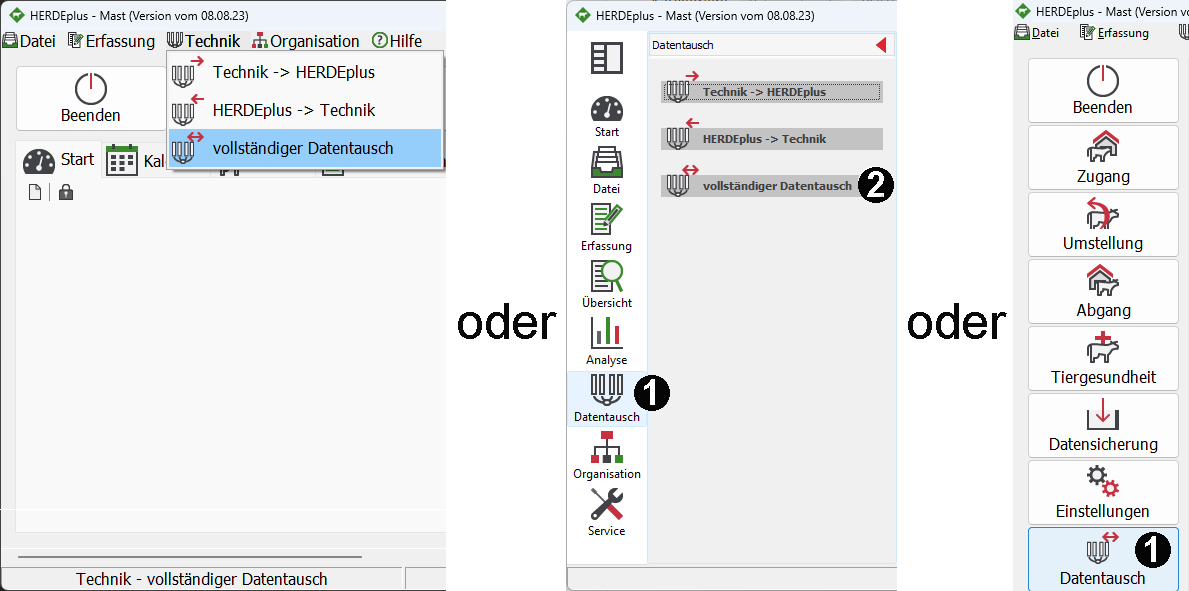
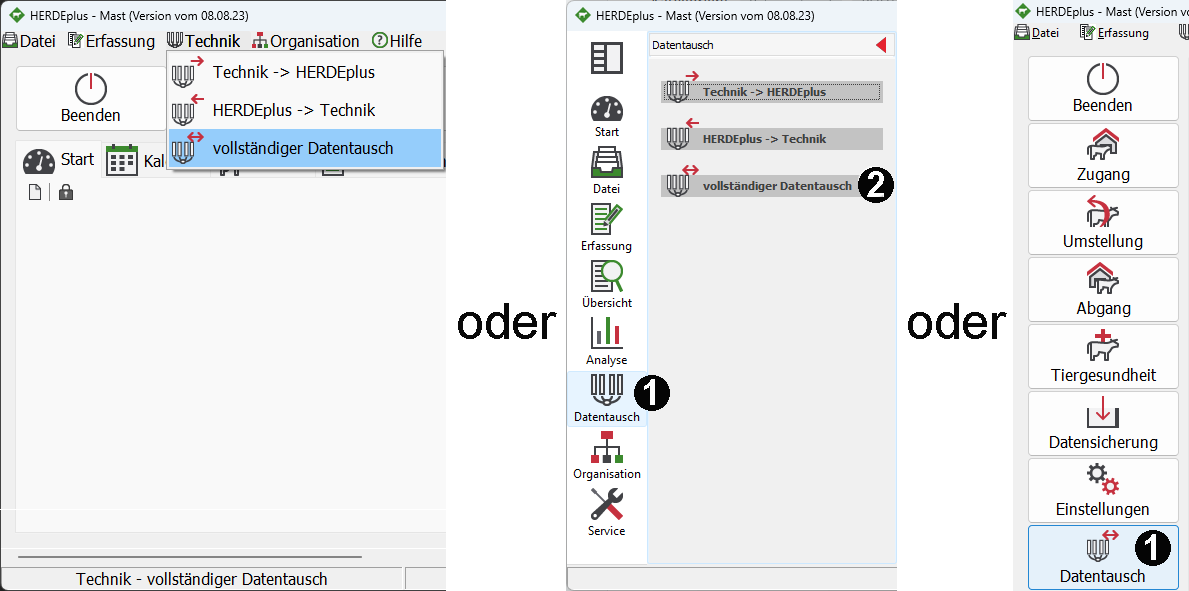
Data synchronisation Herde Plus: add English version

diff --git a/content/de/docs/data-link/dsp-herde/synchronisation.md b/content/de/docs/data-link/dsp-herde/synchronisation.md
@@ -20,20 +20,28 @@ Gehen Sie wie folgt vor, um Daten zwischen der Herde Software und dem VitalContr
 
 ### Vollständigen Datentausch durchführen
 
-1. Weisen Sie die Herde-Software an, einen Datenaustausch durchzuführen. Je nach Konfiguration ihrer Benutzeroberfläche erreichen Sie den entsprechenden Menüpunkt `Datentausch` im Hauptmenü (Menüpunkt _Technik_),  in der Seitenleiste oder in der Werkzeugleiste (horizontal oder vertikal).
+1. Weisen Sie die Herde-Software an, einen Datenaustausch durchzuführen. Je nach Konfiguration ihrer Benutzeroberfläche erreichen Sie den entsprechenden Menüpunkt `Datentausch` im Hauptmenü (Menüpunkt _Technik_),  in der Seitenleiste oder in der angepassten Werkzeugleiste (horizontal oder vertikal).
 
    ![Herde Software: Aufruf der Funktion Datenaustausch](../screenshots/datentausch.png "Herde: Aufruf Datenaustausch")
 
-1. Es öffnet sich ein Pop-up, in dessen linker Seitenleiste die eingerichteten Technikkopplung aufgelistet sind. Klicken Sie auf den Eintrag `VitalControl`, um den Datenaustausch zu starten:
+1. Es öffnet sich ein Pop-up, in dessen linker Seitenleiste die eingerichteten Technikkopplungen aufgelistet sind. Klicken Sie auf den Eintrag `VitalControl`, um den Datenaustausch zu starten:
 
-   ![Herde Software: Datenaustausch starten](../screenshots/start-kopplung.png "Herde: Start Datenaustausch")
+   ![Datenaustausch mit Herde Software: Warnhinweis](../screenshots/start-kopplung.png "Herde: Start Datenaustausch")
 
-1. Beim erstmaligen Datenaustausch erscheint ein Warnhinweis, dass noch keine Tiere auf dem VitalControl angelegt sind. Quittieren Sie diesen Hinweis mit `Ja`.
+1. Beim erstmaligen Datenaustausch erscheint ein Warnhinweis, dass noch keine Tiere auf dem VitalControl angelegt sind. Quittieren Sie diesen Hinweis mit `Ja`. Der Datenaustausch wird gestartet.
 
-   ![Herde Software: Datenaustausch starten](../screenshots/warnung.png "Herde: Start Datenaustausch")
+   ![Herde Software: Datenaustausch starten](../screenshots/warnmeldung.png "Herde: Start Datenaustausch")
+
+1. Der Datenaustausch ist ein zweistufiger Prozess: Im ersten Schritt ➊ werden die Stamm- bzw. Tierdaten von der `Herde`-Software an das VitalControl übergeben. Im zweiten Schritt ➋ werden die mit dem VitalControl erfassten Daten von der `Herde`-Software eingelesen. Die Anzahl der übergebenen Datensätze (Tiere, Abkalbungen, Technikalarme und Gewichte) ist in dem Popup aufgeführt:  
+
+   ![Datenaustausch mit Herde Software: Ablauf](../screenshots/ablauf-kopplung.png "Herde: Ablauf Datenaustausch")
+
+1. Der erfolgreiche Abschluss der Datentausches wird über eine Popup mit einer Erfolgsmeldung signalisiert.
+
+   ![Herde Software: Erfolgsmeldung Datenaustausch](../screenshots/erfolgsmeldung.png "Herde: Erfolgsmeldung Datenaustausch")   
 
     {{% alert title="Achtung" %}}
 Falls viele Tiere übertragen sollen, kann der Importvorgang eine gewisse Zeitspanne in Anspruch nehmen. Den Fortschritt des Datenimports können Sie dabei dem Display des VitalControl-Geräts entnehmen.
 
-![Importierte Herde, Ansicht im VitalControl](../../vcsynchronizer/images/tierimport/datenuebertragung.png "Importierte Tiere")
+![Datensynchronisation mit Herde, Fortschrittsanzeige](../../vcsynchronizer/images/tierimport/datenuebertragung.png "VitalControl: Fortschritt Datenübertragung")
     {{% /alert %}}

diff --git a/content/en/docs/data-link/dsp-herde/synchronisation.md b/content/en/docs/data-link/dsp-herde/synchronisation.md
@@ -8,3 +8,40 @@ description: >
 weight: 20
 categories: [Data exchange, DSP Herde]
 ---
+Gehen Sie wie folgt vor, um Daten zwischen der Herde Software und dem VitalControl abzugleichen:
+
+### Connect VitalControl to PC
+
+1. Connect the VitalControl device to your computer or laptop via the supplied USB cable.
+
+   ![Connect VitalControl to PC or laptop](/images/synchronisation/connect-to-pc.svg "Connect VitalControl to PC")
+
+1. Make sure your VitalControl device is turned on.
+
+### Vollständigen Datentausch durchführen
+
+1. Weisen Sie die Herde-Software an, einen Datenaustausch durchzuführen. Je nach Konfiguration ihrer Benutzeroberfläche erreichen Sie den entsprechenden Menüpunkt `Datentausch` im Hauptmenü (Menüpunkt _Technik_),  in der Seitenleiste oder in der Werkzeugleiste (horizontal oder vertikal).
+
+   ![Herde Software: Aufruf der Funktion Datenaustausch](../screenshots/data-exchange.png "Herde: Aufruf Datenaustausch")
+
+1. Es öffnet sich ein Pop-up, in dessen linker Seitenleiste die eingerichteten Technikkopplungen aufgelistet sind. Klicken Sie auf den Eintrag `VitalControl`, um den Datenaustausch zu starten:
+
+   ![Datenaustausch mit Herde Software: Warnhinweis](../screenshots/start-transfer.png "Herde: Start Datenaustausch")
+
+1. Beim erstmaligen Datenaustausch erscheint ein Warnhinweis, dass noch keine Tiere auf dem VitalControl angelegt sind. Quittieren Sie diesen Hinweis mit `Ja`. Der Datenaustausch wird gestartet.
+
+   ![Herde Software: Datenaustausch starten](../screenshots/warning.png "Herde: Start Datenaustausch")
+
+1. Der Datenaustausch ist ein zweistufiger Prozess: Im ersten Schritt ➊ werden die Stamm- bzw. Tierdaten von der `Herde`-Software an das VitalControl übergeben. Im zweiten Schritt ➋ werden die mit dem VitalControl erfassten Daten von der `Herde`-Software eingelesen. Die Anzahl der übergebenen Datensätze (Tiere, Abkalbungen, Technikalarme und Gewichte) ist in dem Popup aufgeführt:  
+
+   ![Datenaustausch mit Herde Software: Ablauf](../screenshots/data-transfer.png "Herde: Ablauf Datenaustausch")
+
+1. Der erfolgreiche Abschluss der Datentausches wird über eine Popup mit einer Erfolgsmeldung signalisiert.
+
+   ![Herde Software: Erfolgsmeldung Datenaustausch](../screenshots/success-message.png "Herde: Erfolgsmeldung Datenaustausch")   
+
+    {{% alert title="Attention" %}}
+Falls viele Tiere übertragen sollen, kann der Importvorgang eine gewisse Zeitspanne in Anspruch nehmen. Den Fortschritt des Datenimports können Sie dabei dem Display des VitalControl-Geräts entnehmen.
+
+![Datensynchronisation mit Herde, Fortschrittsanzeige](../../vcsynchronizer/images/import-animals/data-transfer.png "VitalControl: Fortschritt Datenübertragung")
+    {{% /alert %}}

diff --git a/content/en/docs/data-link/farm-pc/_index.md b/content/en/docs/data-link/farm-pc/_index.md
@@ -26,19 +26,19 @@ Proceed as follows to export data from VitalControl to a mass storage device of 
 1. In the list of your installed applications, scroll down to the letter `U`. There you should find a menu entry `Urban VitalControl`. If necessary, expand this entry so that all submenu entries are displayed.
 
    {{% alert title="Attention" %}}
-If you cannot find the entry `Urban VitalControl` in your applications list, you may have to [install](../installation/) the software `VCSynchronizer` on your PC first.
+If you cannot find the entry `Urban VitalControl` in your applications list, you may have to [install](../vcsynchronizer/installation/) the software `VCSynchronizer` on your PC first.
    {{% /alert %}}
 
 1. Click on the menu item `Data export (CVS)`.
 
-   ![Windows Start menu, menu entry for Urban VitalControl (VCSynchronizer)](../images/data-export/data-export.png "Windows start menu, VitalControl")
+   ![Windows Start menu, menu entry for Urban VitalControl (VCSynchronizer)](../vcsynchronizer/images/data-export/data-export.png "Windows start menu, VitalControl")
 
 1. The export process is started. Once data export is finished, an Explorer window opens which displays the local data directory with the four newly created [export files](../../data-export/data-files/).
 
-   ![Local data directory with export files](../images/data-export/export-files.png "Export files, locally stored")
+   ![Local data directory with export files](../../data-export/images/export-files.png "Export files, locally stored")
 
    {{% alert title="Note" %}}
-  You can open each of these four [export files](../../data-export/data-files/) in a spreadsheet program of your choice (such as [Microsoft Excel](https://products.office.com/excel) or [OpenOffice Calc](https://www.openoffice.org/)) and perform advanced analysis of the data there. As an example, the view of the table `animals.csv` in a spreadsheet program is shown below:
+  You can open each of these four [export files](../../data-export/export-files/) in a spreadsheet program of your choice (such as [Microsoft Excel](https://products.office.com/excel) or [OpenOffice Calc](https://www.openoffice.org/)) and perform advanced analysis of the data there. As an example, the view of the table `animals.csv` in a spreadsheet program is shown below:
 
-  ![Exported animal data table open in a spreadsheet software](../images/data-export/animals.png "Spreadsheet software with animal data")
+  ![Exported animal data table opened in a spreadsheet software](../../data-export/images/animals.png "Spreadsheet software with animal data")
    {{% /alert %}}

diff --git a/content/de/docs/data-link/farm-pc/_index.md b/content/de/docs/data-link/farm-pc/_index.md
@@ -31,7 +31,7 @@ Gehen Sie wie folgt vor, um Daten vom VitalControl auf einen Massenspeicher ihre
 
 1. Klicken Sie jetzt auf den Menüeintrag `Datenexport (CVS)`.
 
-   ![Windows Startmenü, Eintrag für Urban VitalControl (VCSynchronizer)](../../datenexport/images/datenexport.png "Windows Startmenü, VitalControl")
+   ![Windows Startmenü, Eintrag für Urban VitalControl (VCSynchronizer)](../vcsynchronizer/images/datenexport/datenexport.png "Windows Startmenü, VitalControl")
 
 1. Der Exportvorgang wird gestartet. Nach dem Ende des Exportvorgangs öffnet sich ein Windows-Explorer Fenster, in dem das Datenverzeichnis angezeigt wird. In dem angezeigten Verzeichnis `data` befinden sich die vier neu erstellten [Exportdateien](../../data-export/data-files/).
 
@@ -40,5 +40,5 @@ Gehen Sie wie folgt vor, um Daten vom VitalControl auf einen Massenspeicher ihre
    {{% alert title="Hinweis" %}}
   Sie können jede dieser 4 [Exportdateien](../../datenexport/data-files/) in einem Tabellenkalkulationsprogramm ihrer Wahl öffnen (wie etwa [Microsoft Excel](https://products.office.com/excel) oder [OpenOffice Calc](https://www.openoffice.org/de/) und dort eine erweiterte Auswertungen der Daten durchführen. Beispielhaft ist unten die Ansicht der Tabelle `animals.csv` in einem Tabellenkalkulationsprogramm wiedergegeben.
 
-  ![Exportierte Tierdaten, geöffnet in Tabellenkalkulationsprogramm](../images/datenexport/animals.png "Tabellenkalkulationsprogramm mit Tierdaten")
+  ![Exportierte Tierdaten, geöffnet in Tabellenkalkulationsprogramm](../../datenexport/images/tiere.png "Tabellenkalkulationsprogramm mit Tierdaten")
    {{% /alert %}}

diff --git a/content/de/docs/data-link/hi-tier/animal-import.md b/content/de/docs/data-link/hi-tier/animal-import.md
@@ -66,12 +66,9 @@ Falls Sie in der Liste ihrer Anwendungen den Eintrag `Urban VitalControl` nicht 
     {{% alert title="Achtung" %}}
 Falls viele Tiere übertragen sollen, kann der Importvorgang eine gewisse Zeitspanne in Anspruch nehmen. Den Fortschritt des Datenimports können Sie dabei dem Display des VitalControl-Geräts entnehmen.
 
-![Importierte Herde, Ansicht im VitalControl](../../vcsynchronizer/images/tierimport/datenuebertragung.png "Importierte Tiere")
+![Datenimport von HI-Tier, Fortschrittsanzeige](../../vcsynchronizer/images/tierimport/datenuebertragung.png "Fortschritt Datenimport")
     {{% /alert %}}
 
 1. Der Import der Tiere ist jetzt abgeschlossen. Wenn Sie im Hauptbildschirm Ihres VitalControl-Geräts den Menüpunkt `Herde` aufrufen, können Sie sich davon überzeugen, ob alle Tiere erfolgreich übertragen wurden.
 
   ![Importierte Herde, Ansicht im VitalControl](../../vcsynchronizer/images/tierimport/herde.png "Importierte Tiere")
-
-
-

diff --git a/layouts/shortcodes/alert.md b/layouts/shortcodes/alert.md
@@ -1,0 +1,11 @@
+{{ $color := .Get "color" | default "primary" -}}
+
+<div class="alert alert-{{ $color }}" role="alert">
+{{- with .Get "title" -}}
+  <div class="h4 alert-heading">
+    {{- . | safeHTML -}}
+  </div>
+{{/* Do **not** remove this comment! It ends the previous HTML block; see https://spec.commonmark.org/0.30/#html-blocks, 7. */}}
+{{- end -}}
+{{ .Inner -}}
+</div>
